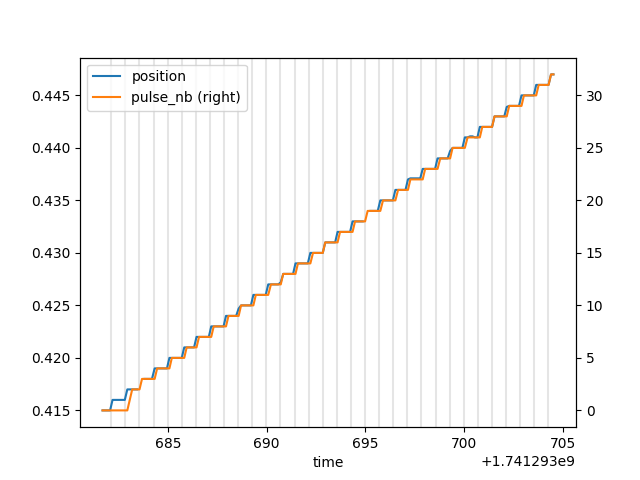
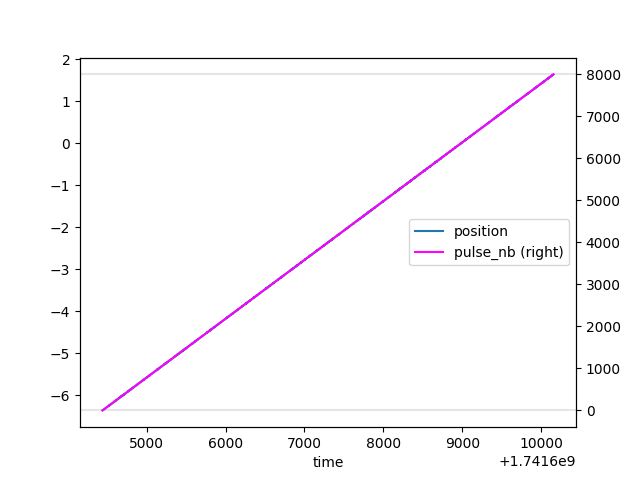
add entrypoints to fix little things before launch

diff --git a/src/exaspim_control/debug_tools/stage.py b/src/exaspim_control/debug_tools/stage.py
@@ -17,7 +17,9 @@ class StageInstrument(PartialInstrument):
     selected_device_types = ["stage","daq"]
     selected_daq_ports = ["stage","camera"]
 
-    def stage_motion_run(self, step_size_um=1, pulse_count = 32, sampling_rate_hz = 10):
+    def stage_motion_run(self, pulse_count = 1000, step_size_um=1, sampling_rate_hz = 10):
+        pulse_count = int(pulse_count)
+        
         stage : "TigerStage" = self.grab_first(self.scanning_stages)
         daq : "NIDAQ" = self.grab_first(self.daqs)
 
@@ -36,6 +38,9 @@ class StageInstrument(PartialInstrument):
         task_end = None
         pulse = 0
 
+        start_position = stage.position_mm
+        end_target_position = start_position + ((step_size_um/1000)*pulse_count)
+
         for task in [daq.ao_task, daq.do_task, daq.co_task]:  # must start co task last in list
             if task is not None:
                 task.start()
@@ -43,26 +48,35 @@ class StageInstrument(PartialInstrument):
         start_time = time.time()
         next_time = start_time + pulse_offset  + ( 1.0 / daq.co_frequency_hz )
         self.log.info(f"Task started at {start_time}")
-        while not task_end :
-            try :
-                position = stage.position_mm
-            except ValueError:
-                position = None
-            if position is None :
-                self.log.warning(f"Error getting the position")
-                position = np.nan
-            positions.append({"time":time.time(),"position":position, "pulse_nb":pulse})
-            
-            if time.time() >= next_time :
-                pulse += 1
-                next_time = start_time + pulse_offset  +  ( pulse * ( 1.0 / daq.co_frequency_hz ) )
-                self.log.info(f"Pulses emmited : {pulse}")
+        
+        failed = False
+        try :
+            while not task_end :
+                try :
+                    position = stage.position_mm
+                except ValueError:
+                    position = None
+                if position is None :
+                    self.log.warning(f"Error getting the position")
+                    position = np.nan
+                positions.append({"time":time.time(),"position":position, "pulse_nb":pulse})
+                
+                if time.time() >= next_time :
+                    pulse += 1
+                    next_time = start_time + pulse_offset  +  ( pulse * ( 1.0 / daq.co_frequency_hz ) )
+                    self.log.info(f"Pulses emmited : {pulse}")
 
-            time.sleep(1 / sampling_rate_hz)
+                time.sleep(1 / sampling_rate_hz)
 
-            if daq.co_task.is_task_done():
-                task_end = time.time()
-                self.log.info(f"Task finished at {task_end}")
+                if daq.co_task.is_task_done():
+                    task_end = time.time()
+                    self.log.info(f"Task finished at {task_end}")
+        except (Exception, KeyboardInterrupt) as e :
+            task_end = time.time()
+            self.log.error(f"Task stopped premptively at {task_end} due to {e}")
+            failed = True
+
+        end_measured_position = stage.position_mm
 
         daq.stop()
         stage.mode = "off"
@@ -73,26 +87,47 @@ class StageInstrument(PartialInstrument):
 
         df = pd.DataFrame(positions)
 
-        ax = df.plot("time", "position", zorder = 2)
+        ax = df.plot("time", "position", zorder = 2, color="tab:blue")
 
         pulse_offset = self.config["instrument"]["devices"]["pcie-6738"]["properties"]["tasks"]["ao_task"]["ports"]["stage"]["parameters"]["start_time_ms"]["channels"]["639"]
-        for pulse in range(pulse_count):
-            time_flag = start_time + (pulse_offset / 1000) + (pulse * ( 1.0 / daq.co_frequency_hz ))
-            ax.axvline(time_flag, alpha = 0.2, color = 'gray',zorder = -1)
+        if pulse_count < 100 :
+            for pulse in range(pulse_count):
+                time_flag = start_time + (pulse_offset / 1000) + (pulse * ( 1.0 / daq.co_frequency_hz ))
+                ax.axvline(time_flag, alpha = 0.2, color = 'gray',zorder = -1)
 
-        ax = df.plot("time", "pulse_nb", ax = ax, secondary_y = True, zorder = 1)
+        if not failed :
+            ax.axhline(start_position, alpha = 0.2, color = 'gray',zorder = -1)
+            ax.axhline(end_target_position, alpha = 0.2, color = 'gray',zorder = -1)
+
+        ax = df.plot("time", "pulse_nb", zorder = 1, color="magenta", secondary_y = True, ax=ax)
+        
+        # ax.get_shared_x_axes().axes[0].zorder = 0
+        # ax.zorder = 1
+        
         ax.figure.savefig(Path(__file__).parent / "stage_motion_run_results_position_vs_time.png")
 
-        
-
-
-        self.log.info(f"Finished debug test")
-
+        self.log.info(f"Start position was : {start_position}")
+        self.log.info(f"End target position was : {end_target_position} for {pulse_count} pulses of {step_size_um}um")
+        self.log.info(f"End measured position was : {end_measured_position}")
+        self.log.info("Finished debug test")
     
     def set_rotary_encoder(self):
         controller : TigerController = self.grab_first(self.stages)
         controller._set_cmd_args_and_kwds(Cmds.CCA, "X=4")
         controller._set_cmd_args_and_kwds(Cmds.RESET,)
+        self.log.info(f"Done setting CCA X=4 for fixing the stage in rotary encoder mode.")
+
+    def set_acceleration_weirdness(self, AA_value = 89, PC_value_mm = 0.0005):
+        """Set nicely zorking values for small steps movement timing and position accuracy
+        For AA, see : https://asiimaging.com/docs/commands/aalign
+        For PC, see https://asiimaging.com/docs/commands/pcros"
+        """
+        controller : TigerController = self.grab_first(self.stages)
+        controller._set_cmd_args_and_kwds(Cmds.AA, f"Z={AA_value}")
+        controller._set_cmd_args_and_kwds(Cmds.PC, f"Z={PC_value_mm}")
+        self.log.info(f"Done setting acceleration and allowed error positionning value. {AA_value} and {PC_value_mm} respectively")
+
+
 
 
     

diff --git a/src/exaspim_control/app.py b/src/exaspim_control/app.py
@@ -55,12 +55,17 @@ def launch(config_path: str, simulated: bool) -> None:
 @cli.command()
 @click.option("--stage-motion", "-s", is_flag=True, help="Test stage movement",default=False)
 @click.option("--fix-rotary", "-r", is_flag=True, help="Setup rotary encoder",default=False)
-def debug(stage_motion : bool, fix_rotary : bool):
+@click.option("--fix-timing-accuracy", "-t", is_flag=True, help="Setup AA command to fix timing accuracy",default=False)
+@click.argument('args', nargs=-1)
+def debug(stage_motion : bool, fix_rotary : bool, fix_timing_accuracy : bool, args):
+    print(args)
     from exaspim_control.debug_tools.stage import StageInstrument
     if stage_motion :
-        StageInstrument().stage_motion_run()
+        StageInstrument().stage_motion_run(*args)
     elif fix_rotary:
-        StageInstrument().set_rotary_encoder()
+        StageInstrument().set_rotary_encoder(*args)
+    elif fix_timing_accuracy:
+        StageInstrument().set_acceleration_weirdness(*args)
     else :
         raise ValueError("You must supply a debug test to run")
 
